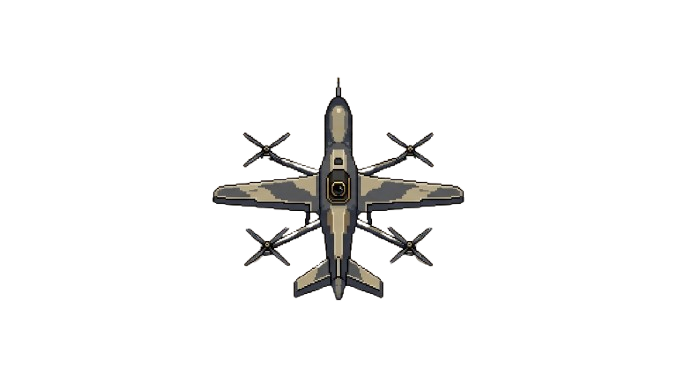
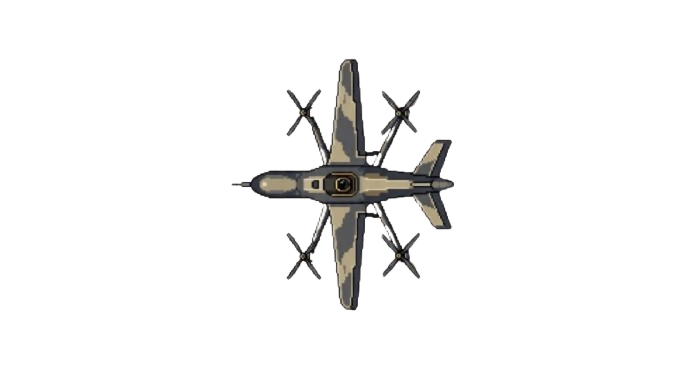
ss6

Changed region(s): [[0.3102, 0.1491, 0.6824, 0.8645], [0.4032, 0.2385, 0.4343, 0.2683]]

diff --git a/index.html b/index.html
@@ -3,13 +3,13 @@
 <head>
     <meta charset="UTF-8">
     <meta name="viewport" content="width=device-width, initial-scale=1.0, maximum-scale=1.0, user-scalable=no">
-    <title>لعبة تعبر عن امتناننة لجهود قوات الدفاع</title>
+    <title>تحدي الطائرة والمسيرة</title>
     <style>
-        body, html { margin: 0; padding: 0; overflow: hidden; width: 100%; height: 100%; background: #000; }
+        body, html { margin: 0; padding: 0; overflow: hidden; width: 100%; height: 100%; background: #000; font-family: Arial, sans-serif; }
         
         #game-container {
             width: 100vw; height: 100vh;
-            background-image: url('im1.jpeg');
+            background-image: url('im1.png');
             background-size: cover;
             background-position: center;
             position: relative;
@@ -25,26 +25,36 @@
         .bullet { width: 25px; position: absolute; z-index: 5; }
         .drone { width: 70px; position: absolute; z-index: 8; }
 
-        /* أزرار التحكم للجوال */
+        /* شاشة النهاية */
+        #end-screen {
+            position: fixed; top: 0; left: 0; width: 100%; height: 100%;
+            background: rgba(0, 0, 0, 0.85);
+            display: none; flex-direction: column;
+            align-items: center; justify-content: center;
+            color: white; z-index: 1000;
+        }
+
+        #end-screen h1 { font-size: 3rem; color: #ff4d4d; margin-bottom: 20px; }
+        #end-screen button {
+            padding: 15px 40px; font-size: 1.5rem; cursor: pointer;
+            background: #28a745; color: white; border: none; border-radius: 10px;
+        }
+
+        /* أزرار الجوال */
         #mobile-controls {
             position: fixed; bottom: 20px; left: 20px; right: 20px;
             display: none; justify-content: space-between; align-items: flex-end;
             z-index: 100;
         }
-
         .control-group { display: flex; flex-direction: column; gap: 10px; }
-        
         .btn {
-            width: 60px; height: 60px; background: rgba(255, 255, 255, 0.3);
+            width: 65px; height: 65px; background: rgba(255, 255, 255, 0.3);
             border: 2px solid #fff; border-radius: 50%;
             display: flex; align-items: center; justify-content: center;
             color: white; font-weight: bold; user-select: none;
-            touch-action: manipulation;
         }
+        #fire-btn { width: 90px; height: 90px; background: rgba(255, 0, 0, 0.5); }
 
-        #fire-btn { width: 80px; height: 80px; background: rgba(255, 0, 0, 0.4); }
-
-        /* إظهار الأزرار فقط في الشاشات الصغيرة */
         @media (max-width: 1024px) { #mobile-controls { display: flex; } }
     </style>
 </head>
@@ -62,46 +72,69 @@
     </div>
 </div>
 
+<div id="end-screen">
+    <h1>انتهت اللعبة!</h1>
+    <button onclick="location.reload()">إعادة المحاولة</button>
+</div>
+
 <script>
     const container = document.getElementById('game-container');
     const player = document.getElementById('player');
+    const endScreen = document.getElementById('end-screen');
+    
     let drone = null;
     let playerY = window.innerHeight / 2;
-    const speed = 8;
+    let isGameOver = false;
+    const playerSpeed = 8;
+    let droneSpeed = 4; // سرعة هجوم المسيرة
 
-    // --- نظام الحركة ---
     const keys = {};
     window.addEventListener('keydown', (e) => keys[e.code] = true);
     window.addEventListener('keyup', (e) => keys[e.code] = false);
 
     // تحكم الجوال
-    let moveUp = false;
-    let moveDown = false;
-    document.getElementById('up-btn').ontouchstart = () => moveUp = true;
+    let moveUp = false, moveDown = false;
+    document.getElementById('up-btn').ontouchstart = (e) => { e.preventDefault(); moveUp = true; };
     document.getElementById('up-btn').ontouchend = () => moveUp = false;
-    document.getElementById('down-btn').ontouchstart = () => moveDown = true;
+    document.getElementById('down-btn').ontouchstart = (e) => { e.preventDefault(); moveDown = true; };
     document.getElementById('down-btn').ontouchend = () => moveDown = false;
-    document.getElementById('fire-btn').ontouchstart = (e) => { e.preventDefault(); shoot(); };
+    document.getElementById('fire-btn').ontouchstart = (e) => { e.preventDefault(); if(!isGameOver) shoot(); };
 
     function update() {
-        // حركة الكمبيوتر (W للأعلى، S للأسفل)
-        if (keys['KeyW'] || moveUp) playerY -= speed;
-        if (keys['KeyS'] || moveDown) playerY += speed;
+        if (isGameOver) return;
 
-        // منع الخروج من الشاشة
+        // حركة الطائرة
+        if (keys['KeyW'] || moveUp) playerY -= playerSpeed;
+        if (keys['KeyS'] || moveDown) playerY += playerSpeed;
+
         if (playerY < 0) playerY = 0;
         if (playerY > window.innerHeight - 80) playerY = window.innerHeight - 80;
-
         player.style.top = playerY + 'px';
 
         if (keys['Space']) {
             shoot();
-            keys['Space'] = false; // لمنع الإطلاق المستمر بضغطة واحدة
+            keys['Space'] = false;
         }
+
+        // حركة المسيرة باتجاه الطائرة
+        if (drone) {
+            let droneX = parseInt(drone.style.right);
+            drone.style.right = (droneX + droneSpeed) + 'px';
+
+            // إذا وصلت المسيرة لنهاية الشاشة ولم تصطدم
+            if (droneX > window.innerWidth) {
+                createDrone();
+            }
+
+            // التحقق من اصطدام المسيرة بالطائرة (خسارة اللاعب)
+            if (isColliding(player, drone)) {
+                gameOver();
+            }
+        }
+
         requestAnimationFrame(update);
     }
 
-    // --- نظام الإطلاق ---
     function shoot() {
         const bullet = document.createElement('img');
         bullet.src = 'im3.png';
@@ -111,11 +144,13 @@
         container.appendChild(bullet);
 
         let bulletMove = setInterval(() => {
+            if (isGameOver) { clearInterval(bulletMove); bullet.remove(); return; }
+            
             let currentLeft = parseInt(bullet.style.left);
             bullet.style.left = (currentLeft + 15) + 'px';
 
             if (drone && isColliding(bullet, drone)) {
-                dropDrone();
+                destroyDrone();
                 bullet.remove();
                 clearInterval(bulletMove);
             }
@@ -127,30 +162,38 @@
         }, 20);
     }
 
-    // --- نظام المسيرة ---
     function createDrone() {
         if (drone) drone.remove();
         drone = document.createElement('img');
         drone.src = 'im4.png';
         drone.className = 'drone';
-        drone.style.right = '50px';
+        drone.style.right = '-100px'; // تبدأ من خارج الشاشة يميناً
         drone.style.top = Math.random() * (window.innerHeight - 100) + 'px';
         container.appendChild(drone);
+        droneSpeed += 0.2; // تزيد الصعوبة تدريجياً
     }
 
-    function dropDrone() {
-        let currentDrone = drone;
+    function destroyDrone() {
+        let targetDrone = drone;
         drone = null;
-        let fallSpeed = 0;
+        targetDrone.style.filter = "hue-rotate(90deg) brightness(2)"; // تأثير انفجار بسيط
+        setTimeout(() => {
+            targetDrone.remove();
+            createDrone();
+        }, 100);
+    }
+
+    function gameOver() {
+        isGameOver = true;
+        endScreen.style.display = 'flex';
+        
+        // تأثير سقوط الطائرة
+        let fall = 0;
         let fallInterval = setInterval(() => {
-            fallSpeed += 2;
-            currentDrone.style.top = (parseInt(currentDrone.style.top) + fallSpeed) + 'px';
-            currentDrone.style.transform = `rotate(${fallSpeed * 10}deg)`;
-            if (parseInt(currentDrone.style.top) > window.innerHeight) {
-                currentDrone.remove();
-                clearInterval(fallInterval);
-                createDrone();
-            }
+            fall += 5;
+            player.style.top = (parseInt(player.style.top) + fall) + 'px';
+            player.style.transform = `rotate(-20deg)`;
+            if (parseInt(player.style.top) > window.innerHeight) clearInterval(fallInterval);
         }, 30);
     }
 
@@ -160,7 +203,7 @@
         return !(aRect.top > bRect.bottom || aRect.bottom < bRect.top || aRect.right < bRect.left || aRect.left > bRect.right);
     }
 
-    // تشغيل اللعبة
+    // ابدأ اللعبة
     createDrone();
     update();
 </script>